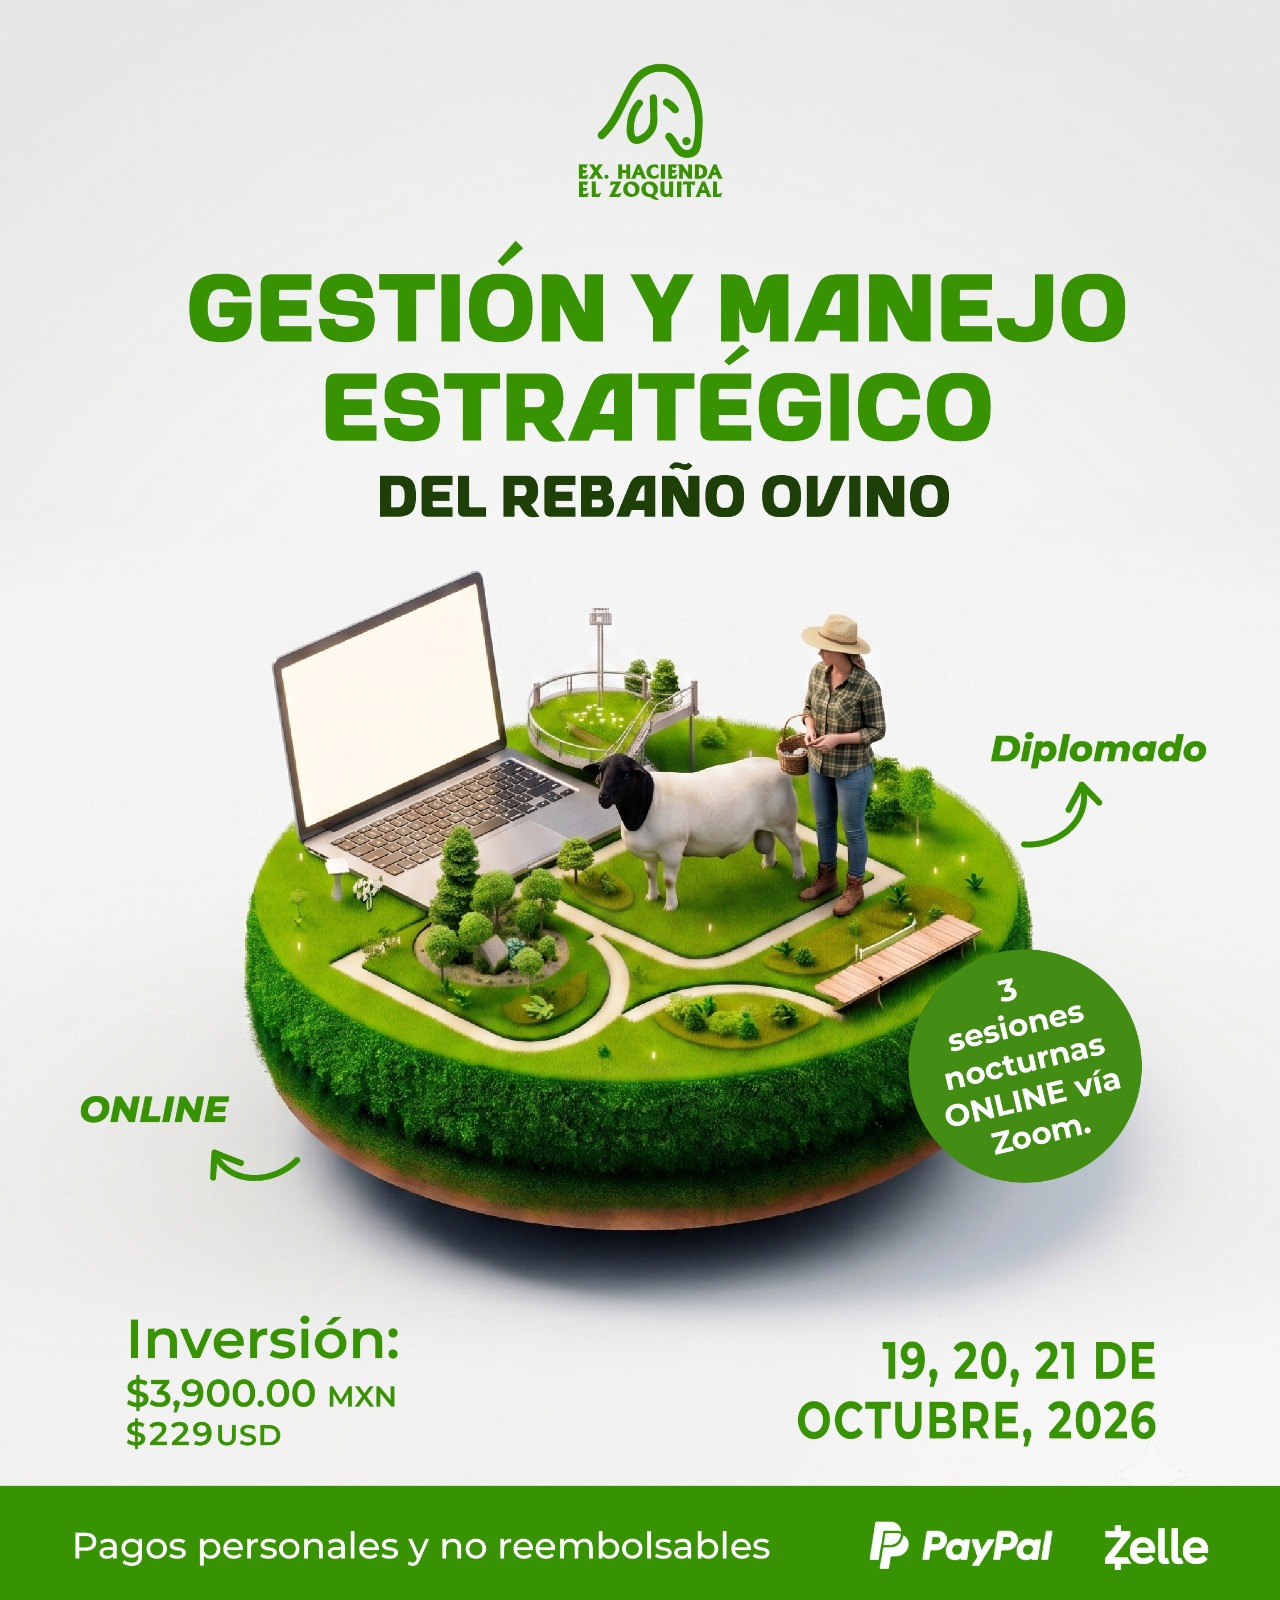
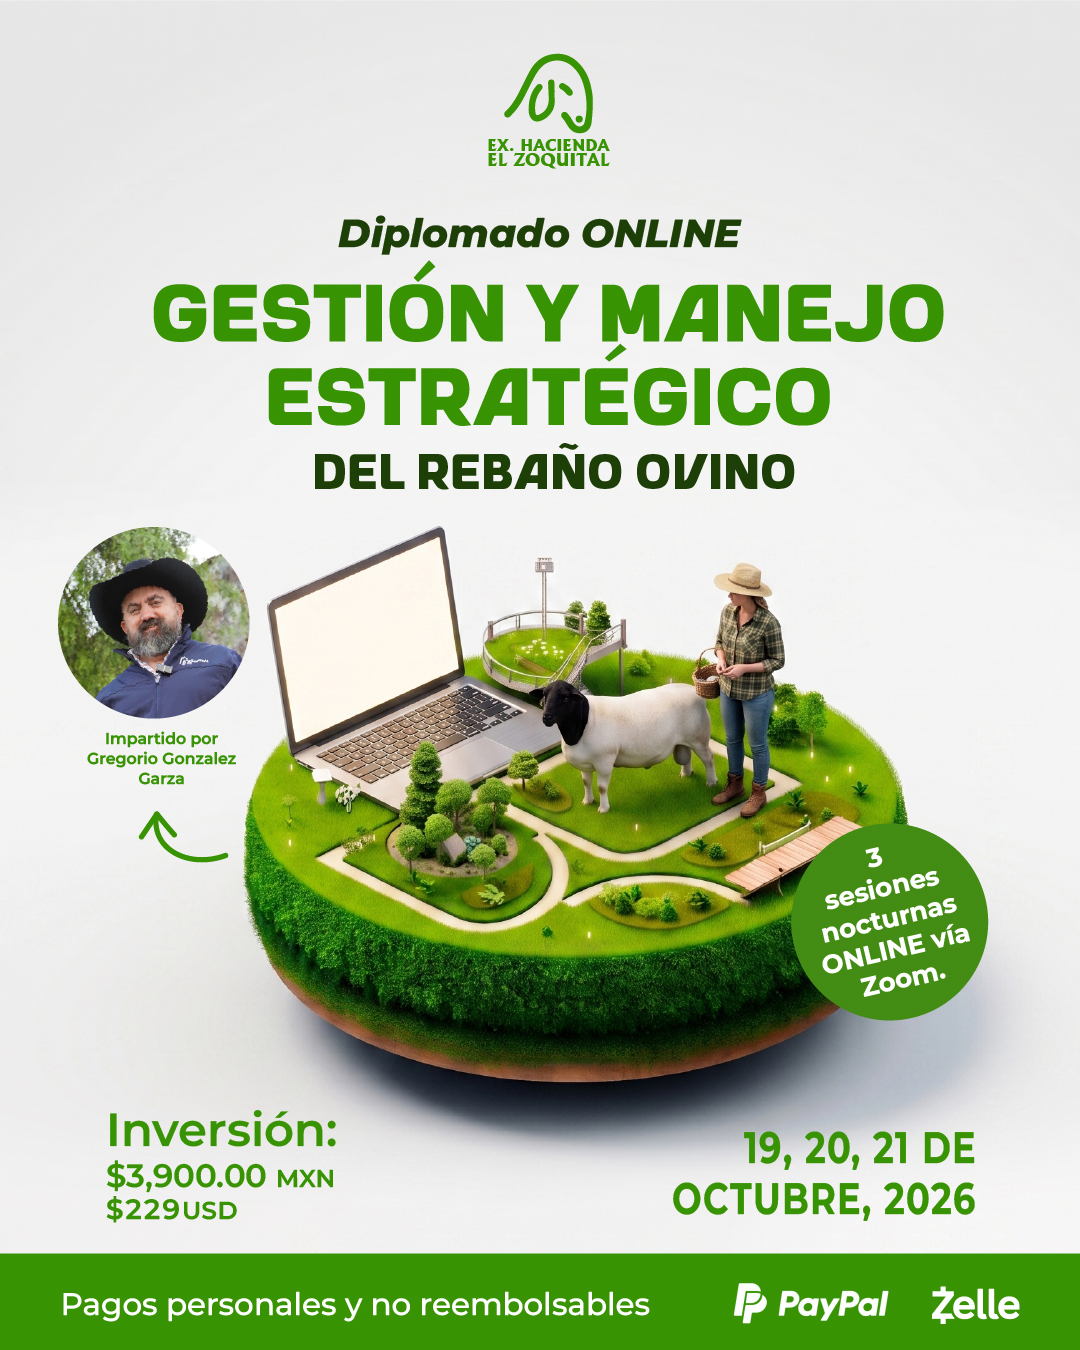
Cambio en la princial y ajustes en las tarjetas incluye

diff --git a/gestion-manejo-rebano-ovino.html b/gestion-manejo-rebano-ovino.html
@@ -524,7 +524,7 @@
       }
       .incl-grid {
         display: grid;
-        grid-template-columns: repeat(3, 1fr);
+        grid-template-columns: repeat(4, 1fr);
         gap: 1rem;
       }
       .incl-card {
@@ -1256,7 +1256,7 @@
         </div>
       </div>
     </section>
-<!-- Cambio en pages github -->
+    <!-- Cambio en pages github -->
     <!-- ===== INCLUYE ===== -->
     <section class="pad incl">
       <div class="wrap">
